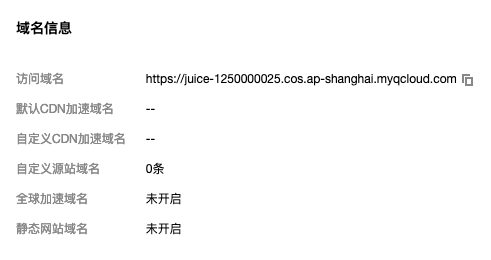
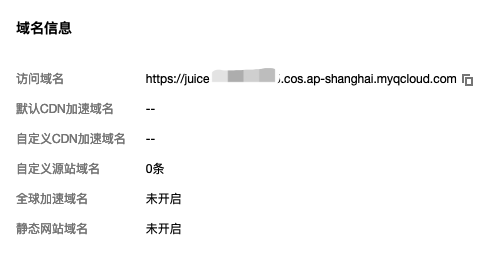
update

Changed region(s): [[0.4277, 0.2462, 0.5804, 0.3385]]

diff --git a/docs/zh_cn/clouds/qcloud.md b/docs/zh_cn/clouds/qcloud.md
@@ -185,8 +185,8 @@ $ juicefs format \
 2021/07/30 11:44:31.904157 juicefs[44060] <INFO>: Meta address: redis://@192.168.5.5:6379/1
 2021/07/30 11:44:31.907083 juicefs[44060] <WARNING>: AOF is not enabled, you may lose data if Redis is not shutdown properly.
 2021/07/30 11:44:31.907634 juicefs[44060] <INFO>: Ping redis: 474.98µs
-2021/07/30 11:44:31.907850 juicefs[44060] <INFO>: Data uses cos://juice-1250000025/mystor/
-2021/07/30 11:44:32.149692 juicefs[44060] <INFO>: Volume is formatted as {Name:mystor UUID:dbf05314-57af-4a2c-8ac1-19329d73170c Storage:cos Bucket:https://juice-1250000025.cos.ap-shanghai.myqcloud.com AccessKey:AKIDGLxxxxxxxxxxxxxxxxxxZ8QRBdpkOkp SecretKey:removed BlockSize:4096 Compression:none Shards:0 Partitions:0 Capacity:0 Inodes:0 EncryptKey:}
+2021/07/30 11:44:31.907850 juicefs[44060] <INFO>: Data uses cos://juice-0000000000/mystor/
+2021/07/30 11:44:32.149692 juicefs[44060] <INFO>: Volume is formatted as {Name:mystor UUID:dbf05314-57af-4a2c-8ac1-19329d73170c Storage:cos Bucket:https://juice-0000000000.cos.ap-shanghai.myqcloud.com AccessKey:AKIDGLxxxxxxxxxxxxxxxxxxZ8QRBdpkOkp SecretKey:removed BlockSize:4096 Compression:none Shards:0 Partitions:0 Capacity:0 Inodes:0 EncryptKey:}
 ```
 
 ## 挂载 JuiceFS 存储
@@ -207,7 +207,7 @@ $ sudo juicefs mount -d redis://:<your-redis-password>@192.168.5.5:6379/1 /mnt/j
 2021/07/30 11:49:56.842211 juicefs[44175] <INFO>: Meta address: redis://@192.168.5.5:6379/1
 2021/07/30 11:49:56.845100 juicefs[44175] <WARNING>: AOF is not enabled, you may lose data if Redis is not shutdown properly.
 2021/07/30 11:49:56.845562 juicefs[44175] <INFO>: Ping redis: 383.157µs
-2021/07/30 11:49:56.846164 juicefs[44175] <INFO>: Data use cos://juice-1250000025/mystor/
+2021/07/30 11:49:56.846164 juicefs[44175] <INFO>: Data use cos://juice-0000000000/mystor/
 2021/07/30 11:49:56.846731 juicefs[44175] <INFO>: Disk cache (/var/jfsCache/dbf05314-57af-4a2c-8ac1-19329d73170c/): capacity (1024 MB), free ratio (10%), max pending pages (15)
 2021/07/30 11:49:57.354763 juicefs[44175] <INFO>: OK, mystor is ready at /mnt/jfs
 ```
@@ -239,7 +239,7 @@ $ juicefs status redis://:<your-redis-password>@192.168.5.5:6379/1
     "Name": "mystor",
     "UUID": "dbf05314-57af-4a2c-8ac1-19329d73170c",
     "Storage": "cos",
-    "Bucket": "https://juice-1250000025.cos.ap-shanghai.myqcloud.com",
+    "Bucket": "https://juice-0000000000.cos.ap-shanghai.myqcloud.com",
     "AccessKey": "AKIDGLxxxxxxxxxxxxxxxxx8QRBdpkOkp",
     "BlockSize": 4096,
     "Compression": "none",
